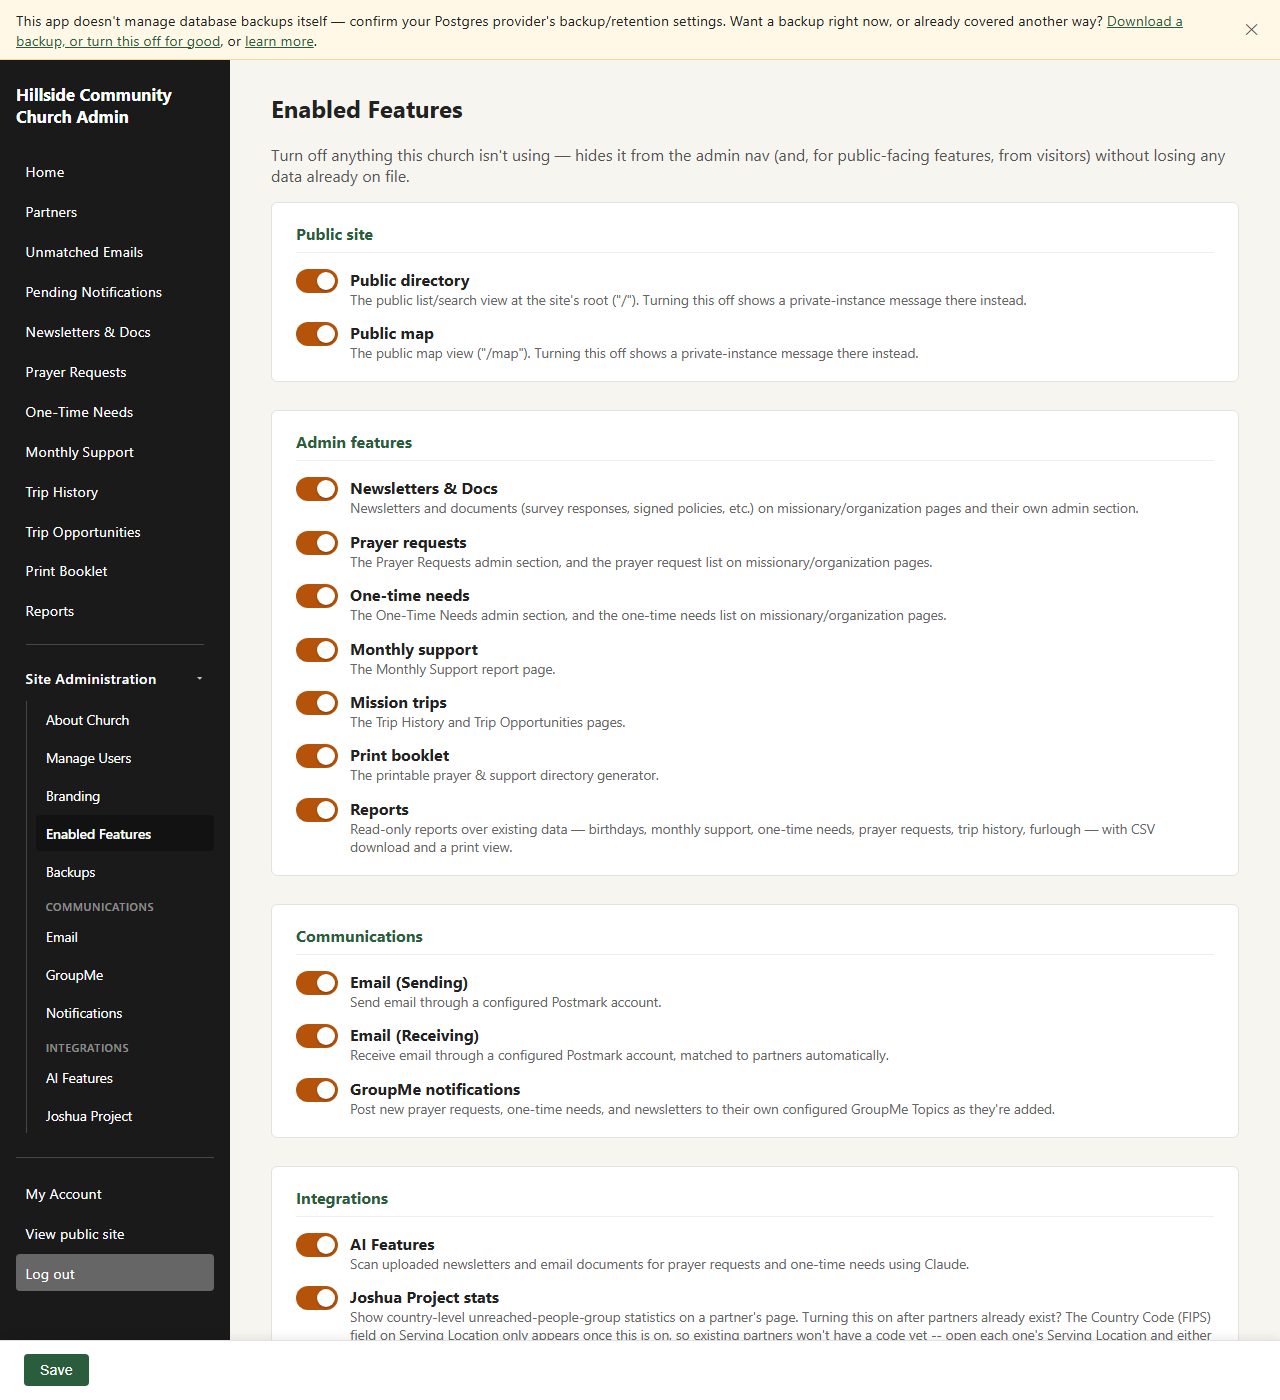
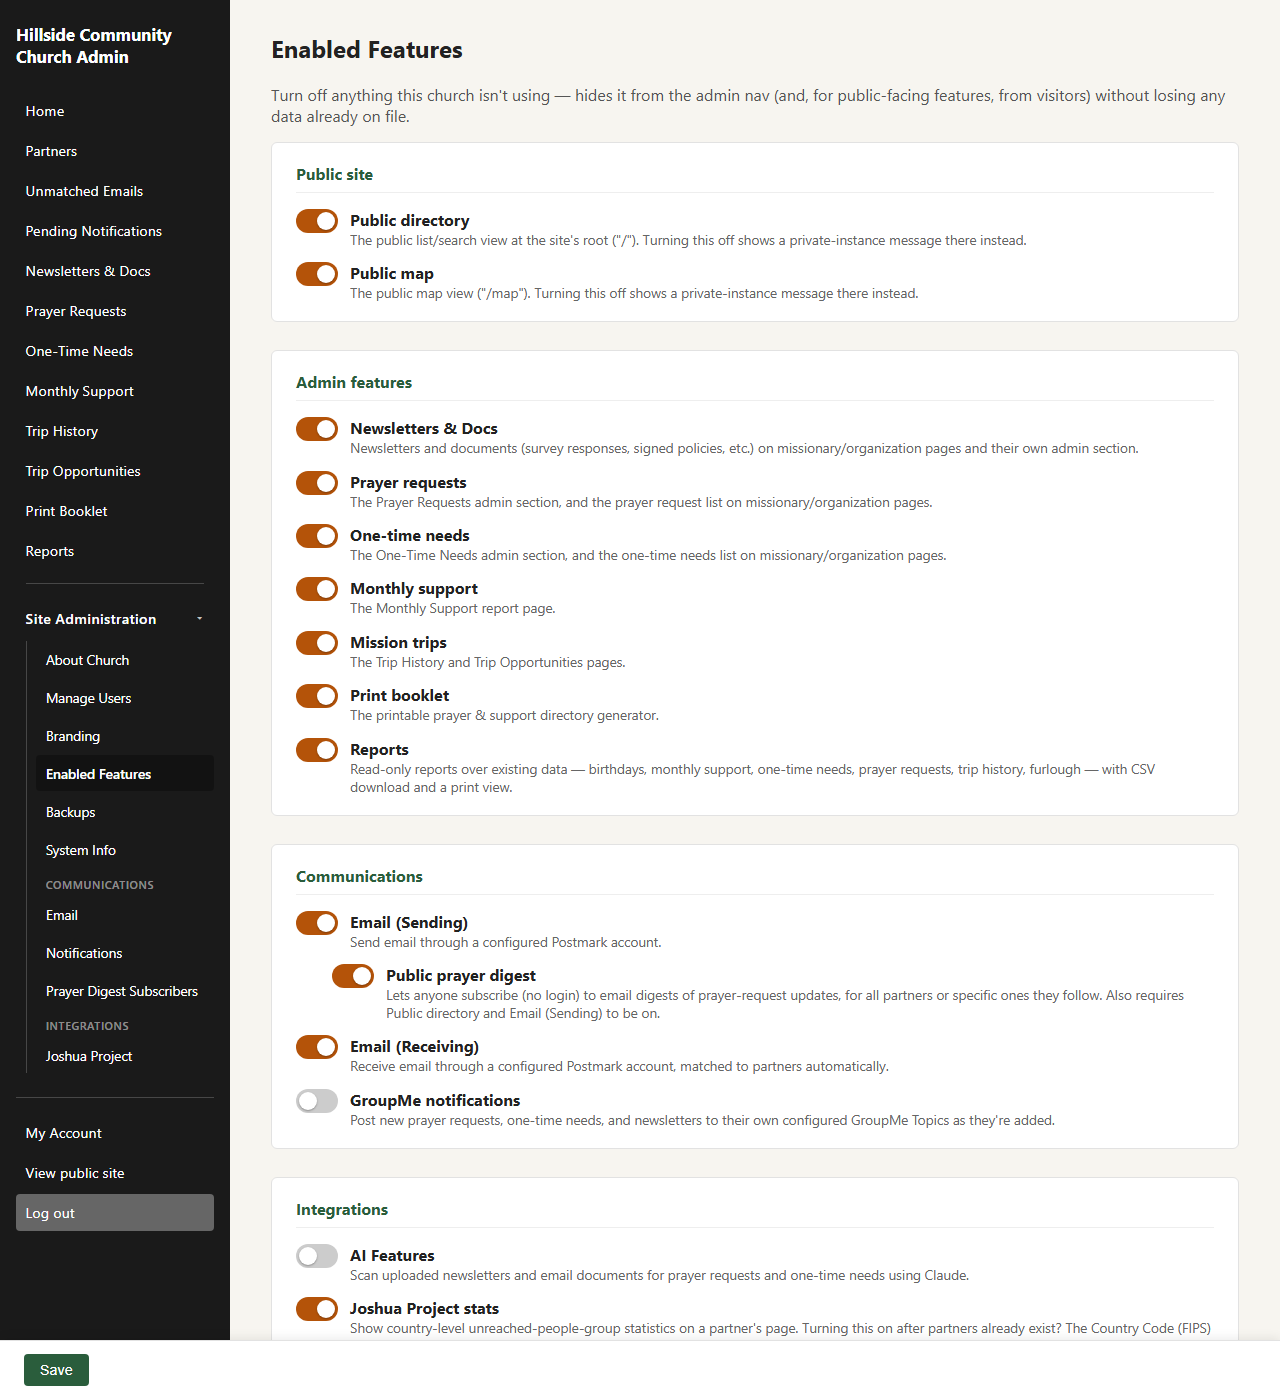
Recapture docs/screenshots stale from the Prayer Wall->Subscribe rework, header unification, and digest-toggle nesting
Header unification (4 public pages) and the Enabled Features reorder/
nesting both made several existing screenshots stale, and the admin
digest cadence picker (Account Settings) never had one at all despite
being fully described in prose.

Recaptured: public-directory.jpg, public-map.jpg,
public-partner-detail.png (also now shows the follow-form and Joshua
Project stats expanded, serving both USER_GUIDE.md and docs/index.html's
reuse of the same file), restricted-partner-masked.png,
enabled-features.png (nested Public prayer digest under Email
(Sending)), unmatched-emails.png (new two-row action layout, a non-
default kind selected). Added account-settings-digest.png (new) plus
its USER_GUIDE.md reference.

Doc text accuracy pass: ADMIN_GUIDE.md's feature-toggle table now
describes the nested/disabled UI behavior for Public prayer digest, and
its Feature toggles intro prose now names all four actual groups
(Communications and Integrations were missing entirely, predating this
change). USER_GUIDE.md's Subscribe-page bullet now states the public
digest's content restriction (prayer requests only) explicitly, matching
what ADMIN_GUIDE.md already said. Spot-checked both guides end-to-end for
the full #202 feature (admin enablement, the two cadence pickers, the
Prayer Digest Schedule/Subscribers pages, the public Subscribe page and
per-partner follow form, the content restriction, and the restricted-
partner masking/review-gate carryover) -- all already accurately and
[…]

diff --git a/ADMIN_GUIDE.md b/ADMIN_GUIDE.md
@@ -124,11 +124,14 @@ admin turn off parts of the app a church isn't using — hides the corresponding
 link/section (and, for the public-site toggles, the site itself) without
 losing any data already on file. Enforced server-side too (not just hidden
 in the UI): a disabled feature's API routes 404, same as a route that was
-never built. Grouped in the UI by what a toggle actually affects — Public
-site (the two toggles a logged-out visitor can notice at all) vs. Admin
-features (everything else, which only changes a logged-in admin's own nav).
+never built. Grouped in the UI by what a toggle actually affects: **Public
+site** (the two toggles a logged-out visitor can notice at all), **Admin
+features** (everything else that only changes a logged-in admin's own
+nav), **Communications** (GroupMe and both halves of email, plus Public
+prayer digest nested under Email (Sending) since it depends on it), and
+**Integrations** (AI Features, Joshua Project).
 
-![The Enabled Features page, grouped into Public Site and Admin Features](docs/assets/screenshots/enabled-features.png)
+![The Enabled Features page, with Public prayer digest nested under Email (Sending) in the Communications section](docs/assets/screenshots/enabled-features.png)
 
 | Feature | Default | Notes |
 |---|---|---|
@@ -146,7 +149,7 @@ features (everything else, which only changes a logged-in admin's own nav).
 | AI Features | **Off** | Adds a "Scan for requests" button on each newsletter/document that's PDF, JPEG, PNG, or `.eml` (Word/Excel aren't supported). Sends that one file to Claude (Anthropic's API) to look for prayer requests and one-time financial needs, then shows them for review — nothing is added until you explicitly accept a suggestion. Requires an API key, set at Site Administration → AI Features ([get one at console.anthropic.com](https://console.anthropic.com/settings/keys), pay-per-scan, a few cents/month at typical volume). Off by default even once the key is configured, since it's the one feature here that sends data to a third party. |
 | Email (Sending) | **Off** | Enables outbound email through a configured [Postmark](https://postmarkapp.com) account, set at Site Administration → Email. Today's only sender is the batched notification digest (see [§ Email (Postmark)](#email-postmark) below), plus Send Test Email on that same settings page. Independent of Email (Receiving) below — a church can turn on either, both, or neither. |
 | Email (Receiving) | **Off** | Lets partners email newsletter updates straight into this app via a Postmark inbound webhook, auto-filed to the matching partner or queued in Unmatched Emails otherwise. Set up on the same Site Administration → Email page as Sending, independently toggled. See [§ Email (Postmark)](#email-postmark) below. |
-| Public prayer digest | **Off** | Lets anyone subscribe (no login) to email digests of prayer-request updates, from the public **Subscribe** page (`/subscribe`) or from a single partner's own page — for all partners or just the ones they pick. Also requires Public directory and Email (Sending) to be on. See [§ Notification batching & email digests](#notification-batching--email-digests) below. |
+| Public prayer digest | **Off** | Lets anyone subscribe (no login) to email digests of prayer-request updates, from the public **Subscribe** page (`/subscribe`) or from a single partner's own page — for all partners or just the ones they pick. Also requires Public directory and Email (Sending) to be on — shown nested under Email (Sending) on this page, and its checkbox can't be turned on until that one is. See [§ Notification batching & email digests](#notification-batching--email-digests) below. |
 
 The registry backing this list lives in `backend/src/utils/features.js` —
 adding a new toggle later is a one-line entry there plus a `requireFeature("key")`

diff --git a/USER_GUIDE.md b/USER_GUIDE.md
@@ -1023,6 +1023,8 @@ Schedule** section specifically — see
 You can also turn it off directly from the unsubscribe link in any
 digest email, without logging in.
 
+![Account settings, Email Notifications: a weekly cadence picked, with the specific-partners scope list expanded](docs/assets/screenshots/account-settings-digest.png)
+
 ![Account settings, mid-enrollment: the QR code step of enabling two-factor authentication](docs/assets/screenshots/mfa-enrollment.png)
 
 ## The public site
@@ -1056,7 +1058,7 @@ entirely by what you check in the admin dashboard:
   [Serving Location](#editing-a-partner) field offers on the
   admin side, here for visitors.
 
-  ![A public partner profile with Joshua Project country statistics expanded](docs/assets/screenshots/public-partner-detail.png)
+  ![A public partner profile, with the per-partner "follow this partner" subscribe form and Joshua Project country statistics expanded](docs/assets/screenshots/public-partner-detail.png)
 - **Subscribe** (`/subscribe`) — only shown once an admin turns on
   [Public prayer digest](ADMIN_GUIDE.md#feature-toggles). A dedicated page
   for getting prayer-request updates by email: no login, just an email
@@ -1065,7 +1067,11 @@ entirely by what you check in the admin dashboard:
   in a confirmation email before anything actually sends (double
   opt-in — nothing goes out to an address nobody confirmed), and every
   digest they get after that carries its own one-click unsubscribe
-  link. A matching, smaller "Follow this partner's prayer requests"
+  link. This public digest is **prayer requests only** — never a
+  one-time need, never a newsletter or a link back to one — unlike the
+  digest an admin can opt into from their own Account Settings below,
+  which still includes both. A matching, smaller "Follow this partner's
+  prayer requests"
   form sits on each partner's own detail page, for subscribing to just
   that one partner instead of everyone — it also points back to this
   page, and, when that partner has their own newsletter signup link,
